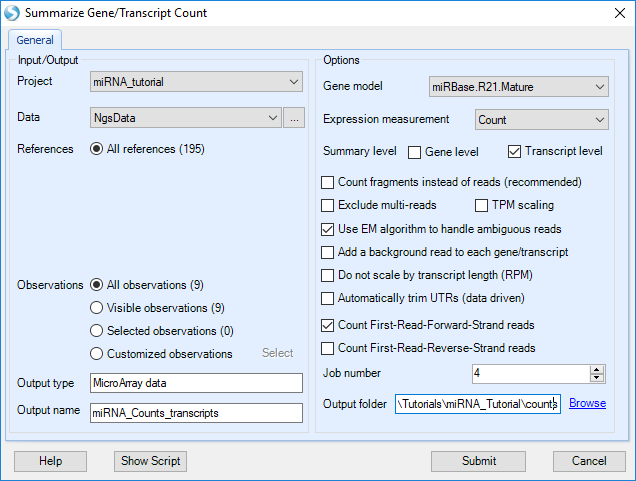
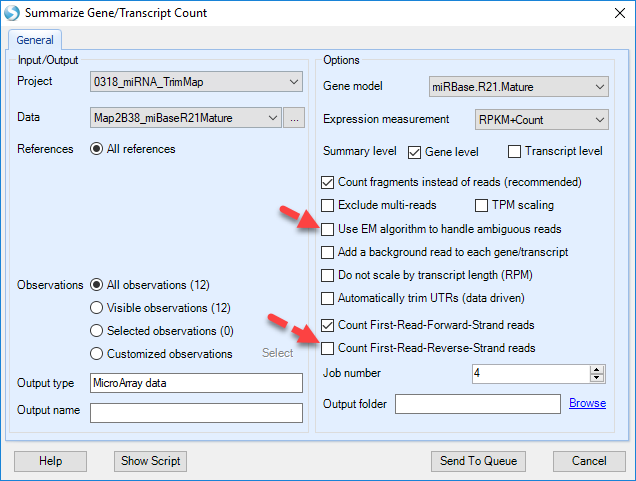
update miRNA quantification page

diff --git a/docs/tutorials/miRNAseq/miRNA-Seq_Quantification.md b/docs/tutorials/miRNAseq/miRNA-Seq_Quantification.md
@@ -8,12 +8,14 @@ Given the alignment, one can summarize miRNA expression, using the Quantificatio
 
 ![Quantification_Menu](images/Quantification_Menu_updated.png)
 
-![transcript_counts](images/transcript_counts.png)
-
 User can choose to quantify at transcript level by selecting it in the **Expression measurement** option. At **Summary Level**, If **Gene level** is selected,
 miRNA expression will be quantified at pre-miRNA gene level.  If **Transcript level** is selected, miRNA expression will be quantified at mature miRNA transcript level.  
+
+![transcript_counts](images/transcript_counts.png)
+
 By default, option **Count fragments instead of reads** is selected, unselect as this is not paired-end (in this case, it makes no difference).
-**Exclude multi-reads** does not count non-unique mapped reads.
+**Exclude multi-reads** does not count non-unique mapped reads. It is important to uncheck Use EM algorithm to handle ambigous reads, and Count First-Read-Reverse-Strand reads. 
+
 In the source paper, multi-reads were distributed to all matching sites, so we will also use multi-reads.
 Options to count reads based on strand are design for dataset from strand-specific protocol.
 In this tutorial, the  samples are strand-specific, as shown in the strand metrics from aligned QC table. Only the first strand counting option is checked. We will examine mature miRNA expression levels, so select **Transcript level**.
